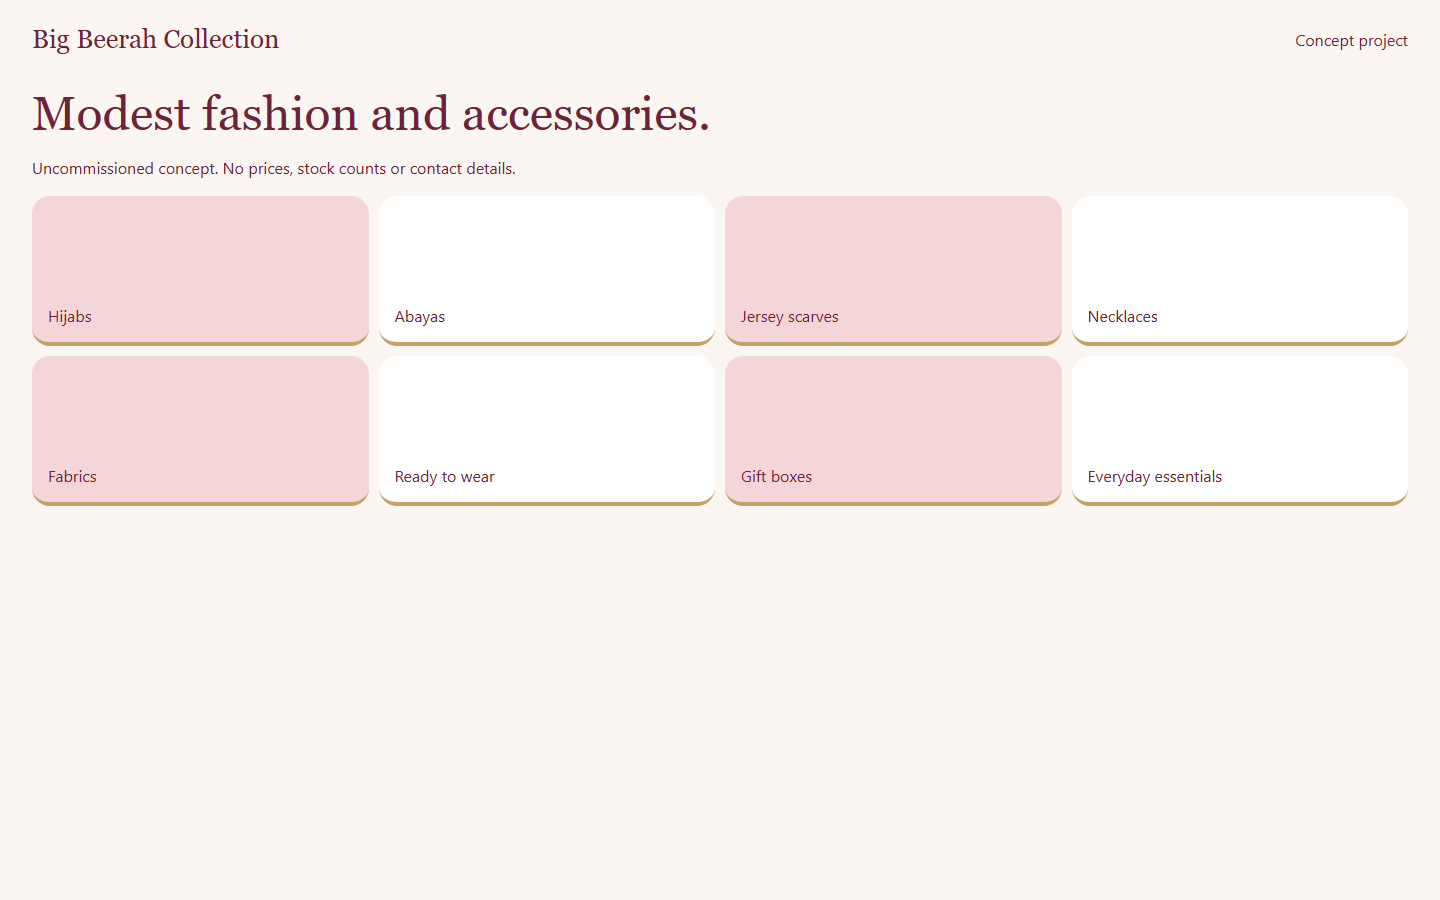
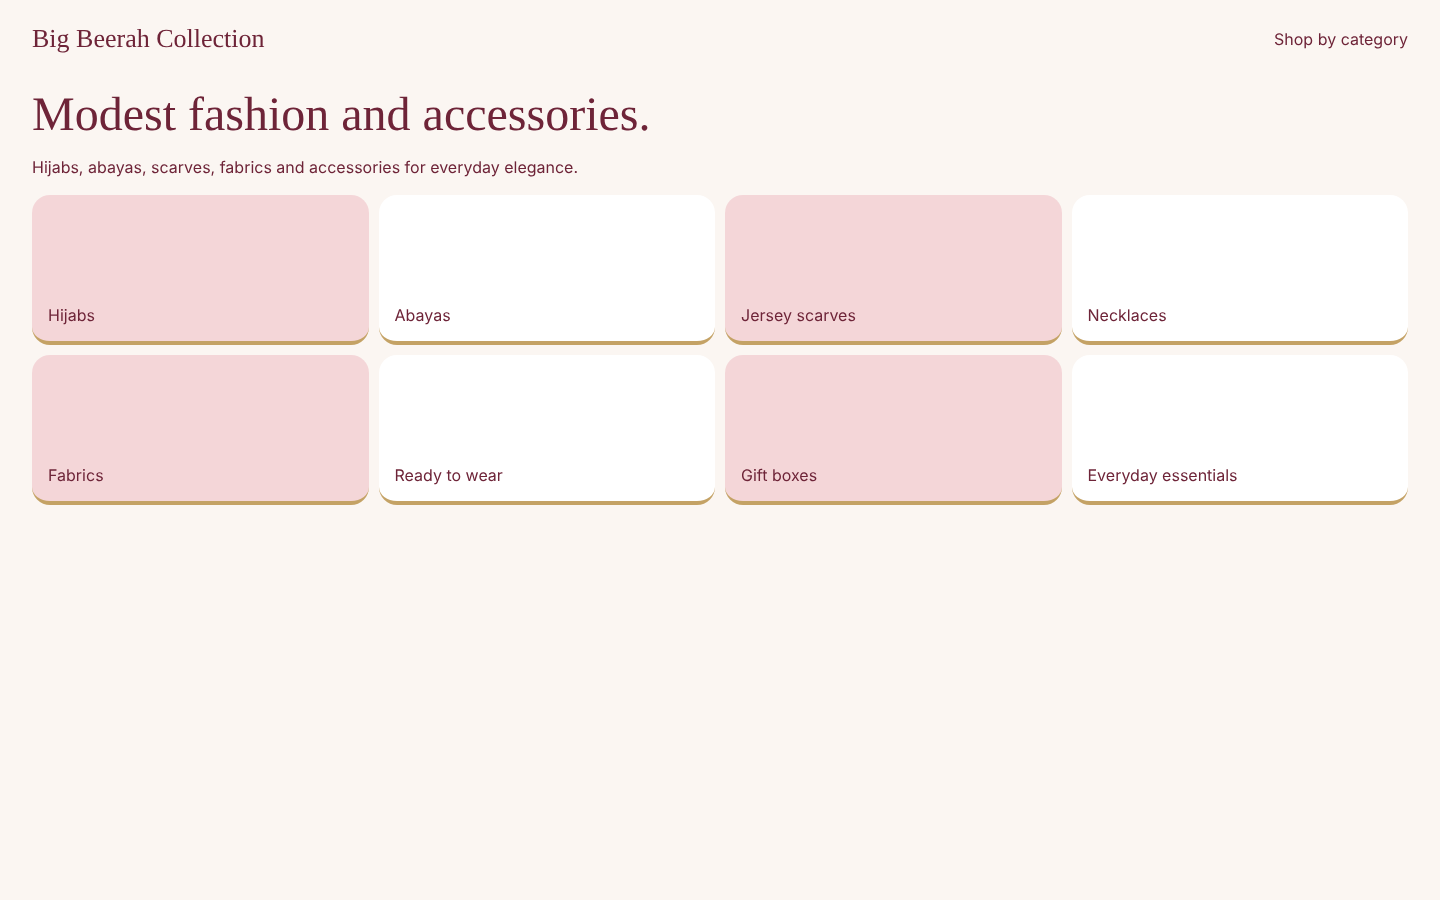
feat(work): Big Beerah Collection becomes client work (ledger 19)
Owner confirmed on 22 Nov 2026 that Big Beerah Collection is a SabiForge client and
that the business agreed to be shown. basis 'client', label 'Client Project', listed
first on the homepage, named in the /work client-work section. Concept wording removed
from its copy and regenerated screens. Amzlat and Opeyemi stay uncommissioned concepts.
Real logo, contacts, products and owner details are pending from the owner; nothing
is invented in the meantime.

Claude-Session: https://claude.ai/code/session_01QNFr8NkKnkDwhjrCx3faK5

diff --git a/src/data/concepts.ts b/src/data/concepts.ts
@@ -1,20 +1,22 @@
 /**
- * Ten studio concepts. One register feeds the homepage and /work.
- * Seven records invent a brand. Three are uncommissioned concepts based on existing
- * businesses. Every record stays labelled "Concept Project".
+ * One register feeds the homepage and /work: one client project (Big Beerah Collection,
+ * labelled "Client Project", ledger item 19), seven invented brands and two uncommissioned
+ * concepts based on existing businesses (both labelled "Concept Project").
  */
 export type ConceptFilterCategory = 'Business websites' | 'E-commerce' | 'Product interfaces';
 
-export type ConceptBasis = 'fictional' | 'reference';
+export type ConceptBasis = 'fictional' | 'reference' | 'client';
 
 export interface Concept {
   id: string;
   name: string;
   category: string;
   filterCategory: ConceptFilterCategory;
-  label: typeof CONCEPT_LABEL;
-  conceptOnly: true;
-  /** fictional = invented brand. reference = existing business, uncommissioned concept site. */
+  label: typeof CONCEPT_LABEL | typeof CLIENT_LABEL;
+  /** Present on every concept; absent on client work. */
+  conceptOnly?: true;
+  /** fictional = invented brand. reference = existing business, uncommissioned concept site.
+   * client = commissioned work the client agreed to publish (ledger item 19). */
   basis: ConceptBasis;
   summary: string;
   challenge: string;
@@ -44,6 +46,7 @@ export interface ConceptStudy {
 }
 
 export const CONCEPT_LABEL = 'Concept Project';
+export const CLIENT_LABEL = 'Client Project';
 export const CONCEPT_DISCLAIMER =
   'Fictional design concept. Not completed client work. Not a live business or client result. Not a client project.';
 
@@ -440,46 +443,45 @@ export const concepts: Concept[] = [
     name: 'Big Beerah Collection',
     category: 'Modest Fashion & Accessories / E-commerce',
     filterCategory: 'E-commerce',
-    label: CONCEPT_LABEL,
-    conceptOnly: true,
-    basis: 'reference',
-    summary: reference,
+    label: CLIENT_LABEL,
+    basis: 'client',
+    summary: 'Client project, published with the owner’s permission.',
     challenge:
-      'A modest-fashion collection needs categories people already use — hijabs, abayas, scarves, jewellery and fabric — presented without turning the brand into something else.',
+      'A modest-fashion business needs an online shop with the categories its customers already ask for (hijabs, abayas, scarves, jewellery and fabric) in the brand’s own colours.',
     approach:
-      'A blush, burgundy and gold shop organised by those categories, with an enquire path and no invented stock.',
+      'A blush, burgundy and gold shop organised by those categories, designed for shoppers browsing on a phone.',
     explores: ['Category merchandising', 'Modest fashion presentation', 'Enquire-first commerce'],
     alt: {
       cover:
-        'Provisional generated art-direction image for the Big Beerah Collection concept project: blush and burgundy textiles with gold jewellery and a coded shop preview.',
+        'Provisional generated art-direction image for the Big Beerah Collection client project: blush and burgundy textiles with gold jewellery and a coded shop preview.',
       detail:
-        'Provisional generated art-direction image for the Big Beerah Collection concept project: folded fabrics and scarves with a coded mobile shop preview.',
+        'Provisional generated art-direction image for the Big Beerah Collection client project: folded fabrics and scarves with a coded mobile shop preview.',
       desktop:
-        'Coded desktop interface preview for the Big Beerah Collection concept project, a modest fashion shop.',
+        'Coded desktop interface preview for the Big Beerah Collection client project, a modest fashion shop.',
       mobile:
-        'Coded mobile interface preview for the Big Beerah Collection concept project, a modest fashion shop.',
+        'Coded mobile interface preview for the Big Beerah Collection client project, a modest fashion shop.',
     },
     study: {
       capability: 'Modest fashion storefront',
       headline: 'Hijabs, abayas and accessories, <em>sorted</em> the way shoppers ask for them.',
       brief:
-        'Big Beerah Collection is an existing modest-fashion business. This study is an uncommissioned shop concept. It keeps hijabs, abayas, jersey scarves, fabrics and necklaces, and also shows ready-to-wear, gift boxes and everyday essentials from the supplied flyer. It is not a beverage brand, and it does not publish the flyer’s contact details.',
+        'Big Beerah Collection is a modest-fashion business and a SabiForge client. We designed its online shop around hijabs, abayas, jersey scarves, fabrics and necklaces, with ready-to-wear, gift boxes and everyday essentials alongside.',
       audience: 'Shoppers looking for modest clothing and accessories on a phone.',
       decisions: [
         {
-          title: 'Use the reference categories',
+          title: 'Lead with the real categories',
           detail:
-            'The shop leads with hijabs, abayas, jersey scarves, necklaces and fabrics, then ready-to-wear, gift boxes and everyday essentials from the supplied flyer.',
+            'The shop leads with hijabs, abayas, jersey scarves, necklaces and fabrics, then ready-to-wear, gift boxes and everyday essentials, the way the business already sells.',
         },
         {
-          title: 'Keep the reference palette',
+          title: 'Keep the brand palette',
           detail:
             'Blush, burgundy and gold are the brand colours. The layout does not introduce a drinks identity.',
         },
         {
-          title: 'Leave contact details off the concept',
+          title: 'Design for the phone first',
           detail:
-            'The reference flyer’s phone numbers and addresses are not copied. Enquiry stays inside the concept.',
+            'Most customers browse on a phone, so categories sit near the top and every tap target is large enough to use with a thumb.',
         },
       ],
       palette: [
@@ -493,7 +495,7 @@ export const concepts: Concept[] = [
         { role: 'Text', face: 'Inter' },
       ],
       limits:
-        'Nothing is for sale. The owner’s flyer is visual direction only. Stock, prices and contact details are not published here.',
+        'The screens show the shop design. For current stock and prices, contact Big Beerah Collection directly.',
       services: ['shopify-ecommerce-development'],
       theme: { bg: '#6e2438', fg: '#fbf6f2', accent: '#e6c98a', muted: '#f4d6d8', tone: 'dark' },
     },

diff --git a/tests/decisions.test.ts b/tests/decisions.test.ts
@@ -101,7 +101,6 @@ describe('real-business concept projects (ledger 17, updated 22 Nov)', () => {
     const { concepts, REFERENCE_CONCEPT_DISCLAIMER } = await import('../src/data/concepts');
     const reference = concepts.filter((concept) => concept.basis === 'reference');
     expect(reference.map((concept) => concept.id)).toEqual([
-      'big-beerah-collection',
       'amzlat-world-of-beauty',
       'opeyemi-phones-gadgets',
     ]);
@@ -110,5 +109,26 @@ describe('real-business concept projects (ledger 17, updated 22 Nov)', () => {
       expect(concept.summary).toMatch(/Not commissioned work/);
     }
     expect(REFERENCE_CONCEPT_DISCLAIMER).toMatch(/Not commissioned work, not an official website/);
+  });
+});
+
+describe('Big Beerah Collection is client work (ledger 19, 22 Nov)', () => {
+  it('is the only client project, labelled as one, with no concept wording', async () => {
+    const { concepts } = await import('../src/data/concepts');
+    const client = concepts.filter((concept) => concept.basis === 'client');
+    expect(client.map((concept) => concept.id)).toEqual(['big-beerah-collection']);
+    const [bb] = client;
+    expect(bb.label).toBe('Client Project');
+    expect(bb.conceptOnly).toBeUndefined();
+    const text = JSON.stringify(bb);
+    expect(text).not.toMatch(/uncommissioned|concept project|not a client|fictional/i);
+    expect(bb.summary).toMatch(/permission/);
+  });
+
+  it('is recorded in the owner ledger', async () => {
+    const { readFileSync } = await import('node:fs');
+    expect(readFileSync('docs/REBUILD-BRIEF.md', 'utf8')).toMatch(
+      /19\. \*\*Owner decision \(22 November 2026\): Big Beerah Collection is client work/,
+    );
   });
 });

diff --git a/tests/content.test.ts b/tests/content.test.ts
@@ -99,11 +99,13 @@ describe('honesty rules', () => {
         'Corporate / Digital Transformation',
       ],
     ]);
-    for (const concept of concepts) {
+    expect(CONCEPT_LABEL).toBe('Concept Project');
+    for (const concept of concepts.filter((c) => c.basis !== 'client')) {
       expect(concept.label).toBe(CONCEPT_LABEL);
-      expect(CONCEPT_LABEL).toBe('Concept Project');
       expect(concept.conceptOnly).toBe(true);
       expect(concept.summary).toMatch(/Not a client project/);
+    }
+    for (const concept of concepts) {
       expect([...concept.name].every((char) => char.charCodeAt(0) < 128)).toBe(true);
     }
     expect(
@@ -112,7 +114,8 @@ describe('honesty rules', () => {
       ),
     ).toBe(false);
     expect(TECHNOLOGY_POSITIONING).toMatch(/latest technology and modern design standards/);
-    expect(concepts.filter((concept) => concept.basis === 'reference')).toHaveLength(3);
+    expect(concepts.filter((concept) => concept.basis === 'reference')).toHaveLength(2);
+    expect(concepts.filter((concept) => concept.basis === 'client')).toHaveLength(1);
     expect(concepts.filter((concept) => concept.basis === 'fictional')).toHaveLength(7);
   });
 

diff --git a/scripts/concept-previews/big-beerah-collection.html b/scripts/concept-previews/big-beerah-collection.html
@@ -92,11 +92,11 @@
   <body>
     <header>
       <div class="brand">Big Beerah Collection</div>
-      <span>Concept project</span>
+      <span>Shop by category</span>
     </header>
     <main>
       <h1>Modest fashion and accessories.</h1>
-      <p>Uncommissioned concept. No prices, stock counts or contact details.</p>
+      <p>Hijabs, abayas, scarves, fabrics and accessories for everyday elegance.</p>
       <div class="grid">
         <article class="item">Hijabs</article>
         <article class="item">Abayas</article>

diff --git a/src/data/demos/index.ts b/src/data/demos/index.ts
@@ -19,6 +19,7 @@ export function getDemo(slug: string): DemoDefinition | undefined {
  * so they get wording that says what they actually are.
  */
 export function demoBadge(concept: Pick<Concept, 'basis'>): string {
+  if (concept.basis === 'client') return 'Client project demo: shop design, shown with permission';
   return concept.basis === 'reference'
     ? 'Concept demo: uncommissioned, not this business’s official website'
     : 'Concept demo: fictional brand, not a live client';

diff --git a/tests/demos.test.ts b/tests/demos.test.ts
@@ -26,6 +26,7 @@ describe('concept demos (T11 shell)', () => {
 
   it('badge says fictional only for fictional concepts', () => {
     expect(demoBadge({ basis: 'fictional' })).toMatch(/fictional brand, not a live client/);
+    expect(demoBadge({ basis: 'client' })).toMatch(/^Client project demo/);
     const reference = demoBadge({ basis: 'reference' });
     expect(reference).toMatch(/uncommissioned/);
     expect(reference).not.toMatch(/fictional/);

diff --git a/tests/milestone-d.test.ts b/tests/milestone-d.test.ts
@@ -33,7 +33,6 @@ describe('studio concept studies', () => {
     const reference = concepts.filter((concept) => concept.basis === 'reference');
     const fictional = concepts.filter((concept) => concept.basis === 'fictional');
     expect(reference.map((concept) => concept.id)).toEqual([
-      'big-beerah-collection',
       'amzlat-world-of-beauty',
       'opeyemi-phones-gadgets',
     ]);

diff --git a/docs/REBUILD-BRIEF.md b/docs/REBUILD-BRIEF.md
@@ -49,8 +49,9 @@ Recorded 22 November 2026:
 
 15. Homepage headline changed to "Your business deserves more than just a website.", with "just a website." as the gradient accent. This replaces item 7. The lede is unchanged.
 16. The homepage hero is rebuilt to `docs/references/hero-target-v2.jpeg`, chosen by the owner over a second supplied image. Copy and buttons are real HTML. Only the laptop-and-phone scene is an image (`src/assets/hero/v2-devices.png`), cut from the reference with the overlapping headline text removed. It is labelled "Concept mockup, not client work". Its dashboard figures and fictional brands ("BizFlow", AURA) are illustrative only.
-17. Big Beerah Collection, Amzlat World of Beauty and Opeyemi Phones & Gadgets are existing businesses that have not been asked. **Owner decision (22 November 2026): publish them now as clearly labelled uncommissioned concepts** ("Concept Project", plus "Uncommissioned, based on an existing business" on the homepage card and the reference-concept disclaimer on `/work`). No addresses, phone numbers, CAC numbers, prices or logos are copied. This supersedes the earlier hold-until-consent rule. If a business objects, remove its record.
+17. Big Beerah Collection, Amzlat World of Beauty and Opeyemi Phones & Gadgets are existing businesses that have not been asked (Big Beerah: superseded by item 19). **Owner decision (22 November 2026): publish them now as clearly labelled uncommissioned concepts** ("Concept Project", plus "Uncommissioned, based on an existing business" on the homepage card and the reference-concept disclaimer on `/work`). No addresses, phone numbers, CAC numbers, prices or logos are copied. This supersedes the earlier hold-until-consent rule. If a business objects, remove its record.
 18. The homepage below the hero follows `docs/references/homepage-target.jpeg`: audience strip, four service cards, six fictional Concept Projects, "Why work with SabiForge?", four packages with approved prices and inclusions, and six process steps. The footer band is the closing call to action. The v1 homepage sections are removed. The "Where are you starting from?" enquiry picker moves to `/services` and is kept. Missing pictures use designed placeholders; prompts are in `docs/IMAGE-REQUESTS.md`.
+19. **Owner decision (22 November 2026): Big Beerah Collection is client work.** The owner confirmed that Big Beerah Collection is a SabiForge client and that the business owner agreed to be shown on the website, including its name, design, contact details, products and owner identity. It is labelled "Client Project" (`basis: 'client'`), listed first on the homepage, and named in the `/work` client-work section. This supersedes item 17 for Big Beerah only; Amzlat and Opeyemi remain uncommissioned concepts. **Pending from the owner:** the real logo, business contact channels, product photos and prices, and the owner's name or photo. Until they are supplied, nothing is invented: the study shows only the shop design and brand palette, and generated art-direction images stay labelled as generated.
 
 ## Overall art direction
 

diff --git a/docs/IMAGE-PROVENANCE.md b/docs/IMAGE-PROVENANCE.md
@@ -40,3 +40,5 @@ Generated by the owner's Grok bot from the prompts in `docs/IMAGE-REQUESTS.md`, 
 | `src/assets/concepts/{maison-vale-studios,aura-clothing,flowdesk-os,campusone-portal,bloom-wellness-studio,routepilot-logistics}.png` | 5–10 | Homepage Selected Work thumbnails for the six fictional concepts. The other four use their `cover.webp`.                                                            |
 | `src/assets/home/why-sabiforge.png`                                                                                                   | 11   | "Why work with SabiForge?" Decorative, with empty alt text. The generated man is not a SabiForge employee.                                                          |
 | `src/assets/hero/v2-devices@2x.png`                                                                                                   | 12   | Source for `src/assets/hero/v2-devices-hd.png` (crop x 360–1600, y 190–1290, 1240×1100), the homepage hero scene. It is labelled "Concept mockup, not client work". |
+
+**22 November 2026:** Big Beerah Collection screens and composites regenerated (`ONLY=big-beerah-collection node scripts/build-concept-assets.mjs`) after it became client work (ledger item 19). Concept wording removed from the coded screens. Scene photographs are unchanged and remain generated art direction, not the client's own photography.

diff --git a/docs/DEMOS.md b/docs/DEMOS.md
@@ -24,7 +24,7 @@ Pages are generated only for slugs listed in `demos`. A concept without a demo h
 
 ## Rules
 
-- The badge stays visible on every demo page. For `basis: 'fictional'` concepts it reads "fictional brand, not a live client". For the three `basis: 'reference'` concepts (Big Beerah, Amzlat, Opeyemi) it says the demo is uncommissioned and is not the business's official website. "Fictional" would be untrue for those three.
+- The badge stays visible on every demo page. For `basis: 'fictional'` concepts it reads "fictional brand, not a live client". For the two `basis: 'reference'` concepts (Amzlat, Opeyemi) it says the demo is uncommissioned and is not the business's official website. Big Beerah Collection is client work (`basis: 'client'`, ledger item 19), so its badge says it is a client project shown with permission.
 - Demo buttons that would leave the demo (checkout, contact, booking) show an on-page "Demo:" message instead. No real forms submit, no payments, no real contact details.
 - No metrics, awards, client logos or testimonials inside demos.
 - Mock headings inside a demo start at `h2`, so the page heading order stays valid.
